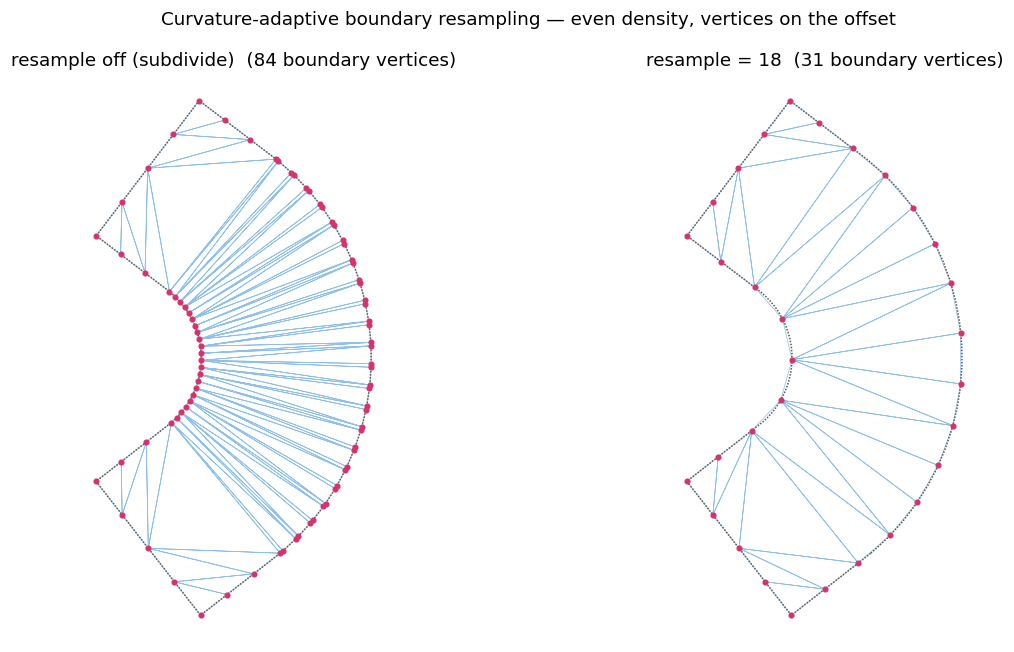
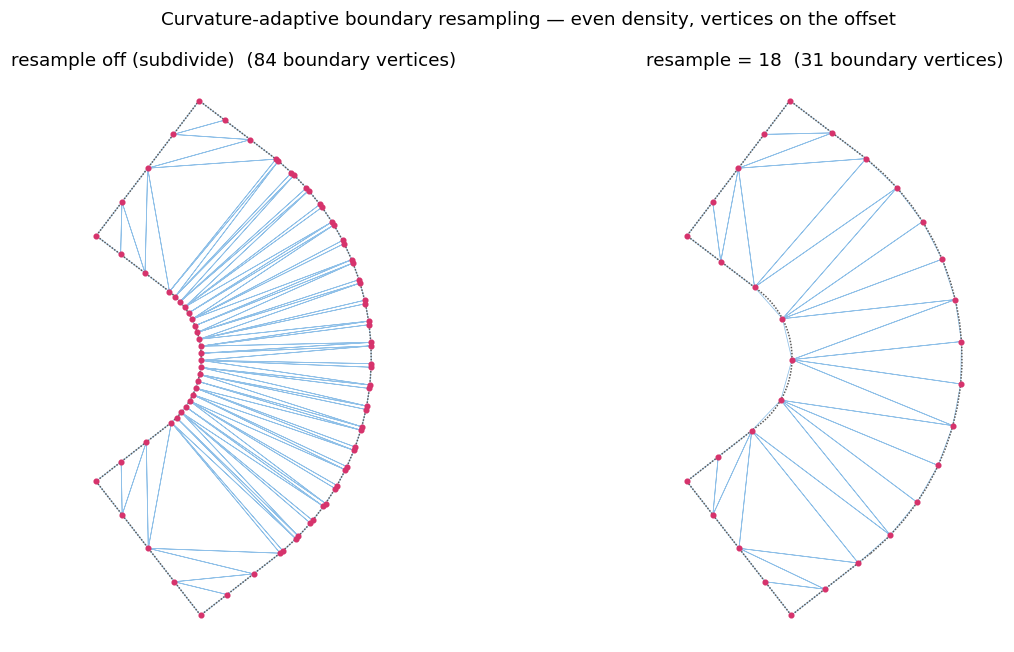
Densify gentle bends in curvature-adaptive resample
The curvature response only engaged for radius < ~1x buffer (index
threshold 45 deg, local_target ramp 15->90 deg), so gentle bends — the
bulk of real geometry — got no extra samples. On a benchmark panel, 776
boundary vertices sit at radius 5-10x buffer and 410 at 2-5x buffer, yet
the median boundary edge stayed at the base spacing (only 2% below it).

Reframe the response in radius terms: the curvature index is sampled at
the base spacing, so a turning angle theta implies radius R = base/theta.
Spacing now follows a constant chord-error (sagitta) law,
base * sqrt(R / onset), with onset = 10x buffer, easing down to the
ratio_90 * buffer floor. The resample-path index threshold drops to
t / (10*buffer) so radius 5-10x buffer bends actually enter the index.
The legacy subdivide path is untouched.

Result on the panel: median edge 20 -> 16.4, p10 -> 15 (floor), p90
still 20 (straights untouched), 54% of edges below 0.9x base. Inner and
outer channel walls keep matched, smoothly varying density.

Adds test_resample_densifies_gentle_bends; regenerates
docs/resample_comparison.png; updates the resample docstring and
algorithm.md.

Changed region(s): [[0.7337, 0.2761, 0.9477, 0.5521], [0.7337, 0.184, 0.856, 0.2761], [0.9172, 0.3681, 0.9477, 0.3988]]

diff --git a/src/python.rs b/src/python.rs
@@ -454,13 +454,24 @@ fn ring_span(pts: &[Pt], start: usize, end: usize) -> Vec<Pt> {
     span
 }
 
+/// Radius of curvature (in buffer units) at which the adaptive resample starts
+/// tightening the spacing. Above this the boundary is treated as straight and
+/// sampled at `base_target`; below it the spacing eases down following a
+/// constant chord-error law. Set so gentle bends (radius 5–10× buffer) — not
+/// just sharp turns — pick up extra samples.
+const CURVATURE_ONSET_RADIUS_FACTOR: f64 = 10.0;
+
 /// Local target arc-length spacing at a point, driven by the curvature index.
 ///
-/// Returns `base_target` where nothing curves nearby, shrinking continuously
-/// toward `ratio_90 * buffer_distance` as nearby curvature approaches 90°.
-/// Because the spacing is a smooth function of position (no integer subdivision
-/// counts), walking a boundary in steps of this size yields a smoothly varying
-/// vertex density with no jumps between adjacent edges.
+/// The index is built by sampling the offset at `base_target` spacing, so a
+/// per-vertex turning angle θ implies a local radius of curvature
+/// `R ≈ base_target / θ`. We phrase the whole response in radius terms: spacing
+/// stays at `base_target` until `R` drops below `CURVATURE_ONSET_RADIUS_FACTOR ×
+/// buffer`, then eases down as `base_target · sqrt(R / onset)` — the constant
+/// chord-error (sagitta) law — bottoming out at the `ratio_90 × buffer` floor.
+/// Because spacing is a smooth function of position (no integer subdivision
+/// counts), walking the boundary in steps of this size yields a continuously
+/// varying vertex density with no jumps between adjacent edges.
 fn local_target(
     index: &CurvatureIndex,
     px: f64,
@@ -469,21 +480,20 @@ fn local_target(
     buffer_distance: f64,
     ratio_90: f64,
 ) -> f64 {
-    let min_angle = 15.0_f64.to_radians();
-    let half_pi = std::f64::consts::FRAC_PI_2;
     let inner_r = buffer_distance * 3.0;
     let outer_r = buffer_distance * 4.0;
-    let max_angle = index.max_angle_near(px, py, inner_r, outer_r);
-    if max_angle < min_angle {
+    let angle = index.max_angle_near(px, py, inner_r, outer_r);
+    if angle <= 1e-9 {
         return base_target;
     }
-    let clamped = max_angle.min(half_pi);
-    let t = ((clamped - min_angle) / (half_pi - min_angle)).clamp(0.0, 1.0);
-    // Smoothstep (not raw quadratic) so spacing eases in/out of curved regions
-    // instead of kinking at the endpoints — gives a gentler density gradient.
-    let smooth = t * t * (3.0 - 2.0 * t);
-    let curv_spacing = buffer_distance + smooth * (ratio_90 * buffer_distance - buffer_distance);
-    base_target.min(curv_spacing)
+    let radius = base_target / angle;
+    let onset = CURVATURE_ONSET_RADIUS_FACTOR * buffer_distance;
+    if radius >= onset {
+        return base_target;
+    }
+    let floor = ratio_90 * buffer_distance;
+    let curv_spacing = base_target * (radius / onset).sqrt();
+    curv_spacing.clamp(floor.min(base_target), base_target)
 }
 
 /// Resample an open span with spatially-varying spacing: at each step the local
@@ -928,13 +938,19 @@ fn preprocess_boundaries(
         }
 
         // Step 1+2: uniform pre-sample at the base spacing (so per-vertex turning
-        // angles are meaningful), then index high-curvature vertices across *all*
-        // rings — cross-ring, so opposing channel walls get matched density.
+        // angles are meaningful), then index curved vertices across *all* rings —
+        // cross-ring, so opposing channel walls get matched density. The angle
+        // threshold corresponds to the onset radius at this spacing
+        // (θ = t / R_onset): anything gentler than ~10× buffer is left at base.
+        let onset = CURVATURE_ONSET_RADIUS_FACTOR * buffer_distance;
+        let resample_index_min_angle = (t / onset).clamp(0.0, std::f64::consts::FRAC_PI_2);
         let mut curv_index = CurvatureIndex::new(buffer_distance * 4.0);
         for (outer, holes) in &post {
-            curv_index.add_ring(&resample_ring(outer, t, corner_angle), index_min_angle);
+            let ring = resample_ring(outer, t, corner_angle);
+            curv_index.add_ring(&ring, resample_index_min_angle);
             for h in holes {
-                curv_index.add_ring(&resample_ring(h, t, corner_angle), index_min_angle);
+                let ring = resample_ring(h, t, corner_angle);
+                curv_index.add_ring(&ring, resample_index_min_angle);
             }
         }
 

diff --git a/python/topologize/__init__.py b/python/topologize/__init__.py
@@ -453,11 +453,14 @@ def topologize(
         long edges. This balances CDT vertex density on both sides of
         tightly-curved buffers (the convex side otherwise carries several times
         more vertices than the concave side, producing skewed fan triangles).
-        Curvature refinement is folded into the resample: spacing tightens
-        smoothly through curves (down to ``subdivision_ratio * inflation_radius``)
-        and every sample is taken *on* the offset boundary, so vertices never sit
-        on a chord. A good starting point is ``0.5``–``0.75 * inflation_radius``;
-        the result is robust across a wide range of spacings.
+        Curvature refinement is folded into the resample: spacing follows a
+        constant chord-error law, easing down as the local radius of curvature
+        drops below ~10x the inflation radius (so gentle bends densify too, not
+        only sharp turns) and bottoming out at
+        ``subdivision_ratio * inflation_radius``. Every sample is taken *on* the
+        offset boundary, so vertices never sit on a chord. A good starting point
+        is ``0.5``–``0.75 * inflation_radius``; the result is robust across a wide
+        range of spacings.
     boundary_simplification : float or None, default None (= 0.05 * feature_size)
         RDP tolerance (in input units) applied to the inflated boundary *before*
         triangulation. This denoises the offset's square-join micro-jank so the

diff --git a/tests/test_resample.py b/tests/test_resample.py
@@ -101,6 +101,28 @@ def test_resample_with_holes_produces_skeleton():
         assert len(res.chains) >= 1, f"resample={spacing} produced no skeleton"
 
 
+def test_resample_densifies_gentle_bends():
+    """Gentle bends (radius 5-10x buffer), not only sharp turns, must pick up
+    extra samples. A circle of radius 70 buffered by 10 yields two gentle rings
+    (outer R=80=8x buf, hole R=60=6x buf) with no sharp corners or end caps. The
+    spacing must ease below the requested base there, without collapsing past the
+    floor. Older curvature handling only engaged near ~90 deg turns and left
+    these rings at the base spacing."""
+    a = np.linspace(0.0, 2.0 * np.pi, 400)
+    circle = np.column_stack([70.0 * np.cos(a), 70.0 * np.sin(a)])
+    circle[-1] = circle[0]
+    buf = 10.0
+    base = 8.0
+
+    tris = triangulate([circle], buf, resample=base, boundary_simplification=0.0)
+    L = _boundary_edge_lengths(tris)
+
+    # Densified below the base spacing through the gentle curvature...
+    assert np.median(L) < 0.85 * base
+    # ...but not collapsed past the floor (subdivision_ratio * buffer = 5).
+    assert np.median(L) > 0.5 * buf - 1e-6
+
+
 def test_resample_no_subdivision_quantization():
     """Density varies smoothly: boundary edges should not cluster at the discrete
     base/n values (20, 10, 6.67, ...) that the old ceil()-based subdivision

diff --git a/algorithm.md b/algorithm.md
@@ -33,12 +33,16 @@ interior junction, which roughens the buffer boundary and fragments the skeleton
    - **Subdivision** (default, max edge = 1.5 × buffer): splits long edges only,
      re-densifying straight sections so CDT triangles stay compact.
    - **Curvature-adaptive resample** (when `resample` is set): redistributes each
-     ring to a base arc-length spacing, tightening *smoothly* through curves
-     (down to `subdivision_ratio × buffer`). Curvature refinement is folded into
-     the resample — every sample is taken *on* the offset boundary (never on a
-     post-hoc chord), and density varies continuously. This balances CDT vertex
-     density on both sides of tightly-curved buffers, where the convex side
-     otherwise carries several times more vertices than the concave side.
+     ring to a base arc-length spacing, tightening *smoothly* through curves.
+     Spacing follows a constant chord-error (sagitta) law, `s ∝ √R`: it stays at
+     the base spacing until the local radius of curvature drops below ~10 × buffer,
+     then eases down — so gentle bends (radius 5–10 × buffer) pick up extra
+     samples, not only sharp turns — bottoming out at `subdivision_ratio × buffer`.
+     Curvature refinement is folded into the resample — every sample is taken *on*
+     the offset boundary (never on a post-hoc chord), and density varies
+     continuously. The radius is estimated cross-ring, so opposing channel walls
+     get matched density (the convex side otherwise carries several times more
+     vertices than the concave side).
 
 The net effect: CDT input is reduced from ~29k to ~14k boundary points on the
 benchmark input, cutting skeleton time from ~1 s to ~40 ms total.
